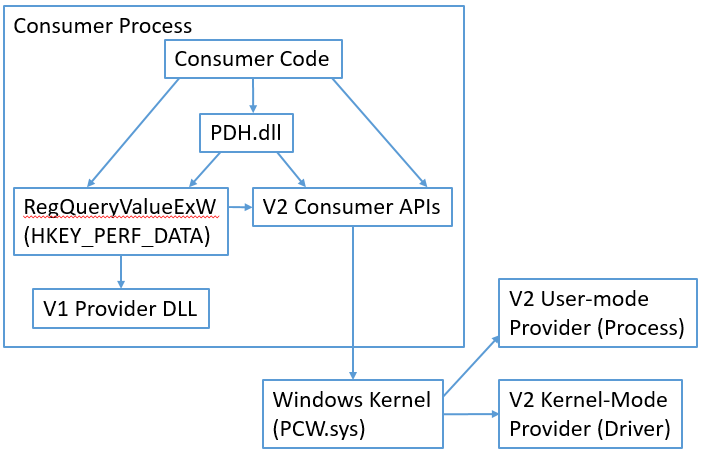
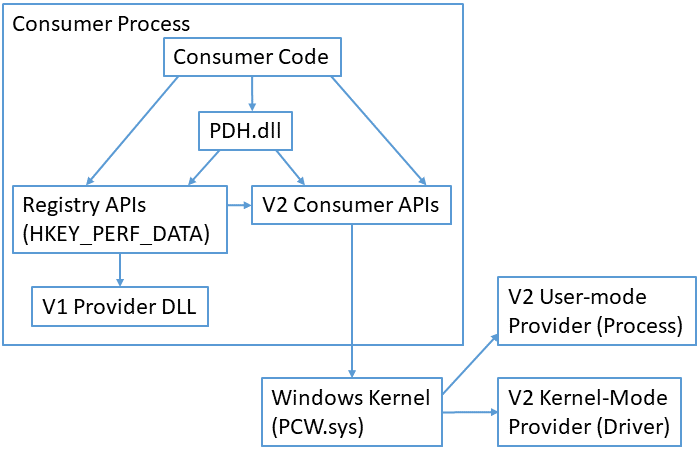
Feedback, fixes

diff --git a/desktop-src/PerfCtrs/about-performance-counters.md b/desktop-src/PerfCtrs/about-performance-counters.md
@@ -8,61 +8,65 @@ ms.date: 08/17/2020
 
 # About Performance Counters
 
-Windows Performance Counters provide a high-level abstraction layer with a consistent interface for collecting various kinds of system data such as CPU, memory, and disk usage statistics. System administrators use performance counters to monitor systems for performance or behavior problems. Software developers use performance counters to examine the resource usage of their programs.
+Windows Performance Counters provide a high-level abstraction layer with a consistent interface for collecting various kinds of system data such as CPU, memory, and disk usage statistics. System administrators use performance counters to monitor for performance or behavior problems. Software developers use performance counters to inspect the resource usage of their components.
 
 > [!IMPORTANT]
 > Windows Performance Counters are optimized for administrative/diagnostic data discovery and collection. They are not appropriate for high-frequency data collection or for application profiling since they are not designed to be collected more than once per second. For lower-overhead access to system information, you might prefer more direct APIs such as [**Process Status Helper**](https://docs.microsoft.com/windows/win32/psapi/process-status-helper), [**GlobalMemoryStatusEx**](https://docs.microsoft.com/windows/win32/api/sysinfoapi/nf-sysinfoapi-globalmemorystatusex), [**GetSystemTimes**](https://docs.microsoft.com/windows/win32/api/processthreadsapi/nf-processthreadsapi-getsystemtimes), or [**GetProcessTimes**](https://docs.microsoft.com/windows/win32/api/processthreadsapi/nf-processthreadsapi-getprocesstimes). For profiling, you might collect ETW logs with system profiling data using [**tracelog.exe**](https://docs.microsoft.com/windows-hardware/drivers/devtest/tracelog) with `-critsec`, `-dpcisr`, `-eflag`, or `-ProfileSource` options, or you might use [**Hardware Counter Profiling**](https://docs.microsoft.com/previous-versions/windows/desktop/hcp/hcp-reference).
 
 > [!NOTE]
-> Do not confuse Windows Performance Counters with the [**QueryPerformanceCounter**](https://docs.microsoft.com/windows/win32/api/profileapi/nf-profileapi-queryperformancecounter) API. Windows Performance Counters provide a high-level abstraction for various kinds of system information. The QueryPerformanceCounter function provides optimized access to a single kind of system information (the system's performance timestamp).
+> Do not confuse Windows Performance Counters with the [**QueryPerformanceCounter**](https://docs.microsoft.com/windows/win32/api/profileapi/nf-profileapi-queryperformancecounter) API. Windows Performance Counters provide a high-level abstraction for many kinds of system information. The QueryPerformanceCounter function provides optimized access to a high-precision timestamp.
 
-## Where applicable
+## Getting Started
 
-- Use [Performance Counter Tools](performance-counters-tools.md) when you want to collect or view the counter data from a system.
-- Use [Performance Counter Collection APIs](consuming-counter-data.md) when you want to write a script or a program that collects counter data from the local system.
-- Use [WMI Performance Counter Classes](https://docs.microsoft.com/windows/desktop/WmiSdk/monitoring-performance-data) when you want to collect counter data from a local or remote system using WMI.
-- Use [Performance Counter Provider APIs](providing-counter-data.md) when you want to publish performance counter data from your software component.
+- Use [Performance Counter Tools](performance-counters-tools.md) when you want to collect or view the performance data from a system.
+- Use [Performance Counter Collection APIs](consuming-counter-data.md) when you want to write a script or a program that collects performance data from the local system.
+- Use [WMI Performance Counter Classes](https://docs.microsoft.com/windows/desktop/WmiSdk/monitoring-performance-data) when you want to collect performance data from a local or remote system using WMI.
+- Use [Performance Counter Provider APIs](providing-counter-data.md) when you want to publish performance data from your software component.
 
-## Performance Counter Concepts
+## Concepts
 
-The Windows Performance Counter system is organized into consumers, providers, countersets (aka objects), counters, and instances.
+The Windows Performance Counter system is organized into **consumers**, **providers**, **countersets**, **counters**, **instances**, and **counter values**.
 
-A **consumer** is a software component that makes use of performance counter data. Windows includes several [built-in tools](performance-counters-tools.md) that make use of performance counter data including Task Manager, Resource Monitor, Performance Monitor, typeperf.exe, logman.exe, and relog.exe. Developers can write scripts and applications that access performance counters via the [performance counter APIs](consuming-counter-data.md).
+A **consumer** is a software component that makes use of performance data. Windows includes several [built-in tools](performance-counters-tools.md) that make use of performance data. These include Task Manager, Resource Monitor, Performance Monitor, typeperf.exe, logman.exe, and relog.exe. Developers can write scripts and applications that access performance counters via [performance counter APIs](consuming-counter-data.md).
 
-A **provider** is a software component that [generates and publishes performance counter data](providing-counter-data.md). A provider will publish data for one or more *countersets*. For example, a database might register itself as a performance counter provider.
+A **provider** is a software component that [generates and publishes performance data](providing-counter-data.md). A provider will publish data for one or more *countersets*. For example, a database system might register itself as a performance data provider.
 
-- A **V1 provider** is a software component that publishes performance counter data via a [performance DLL](providing-counter-data-using-a-performance-dll.md) that runs in the process of the consumer. A V1 provider is installed onto a system via an .INI file.
-- A **V2 provider** is a software component that publishes performance counter data via the [performance counter provider APIs](providing-counter-data-using-version-2-0.md). A V2 providers is installed onto a system via a .MAN (XML manifest) file.
+- A **V1 provider** is a software component that publishes performance data via a [performance DLL](providing-counter-data-using-a-performance-dll.md) that runs in the process of the consumer. A V1 provider is installed onto a system via an `.ini` file. The V1 provider architecture is deprecated. New providers should use the V2 provider architecture.
+- A **V2 provider** is a software component that publishes performance data via the [performance counter provider APIs](providing-counter-data-using-version-2-0.md). A V2 provider is installed onto a system via a `.man` (XML manifest) file.
 
-A **counterset** is a named grouping of performance counter data. A counterset has a name and one or more *counters*. For example, a performance data provider for a database might provide multiple countersets -- one for global statistics and one for per-database statistics. In some Windows APIs, the counterset is called a **performance object**.
+A **counterset** is a grouping of performance data within a provider. A counterset has a name and one or more *counters*. Collecting the data from a counterset returns a number of *instances*. In some Windows APIs, countersets are called **performance objects**. For example, a performance data provider for a database system might provide a counterset for per-database statistics.
 
-A **counter** is the definition of single piece of performance counter data. A counter has a name and a type. For example, a database might provide a counter named "Queries per second" with type `PERF_COUNTER_COUNTER` in its per-database counterset.
+A **counter** is the definition of single piece of performance data. A counter has a name and a type. For example, a "per-database statistics" counterset might contain a counter named "transactions per second" with type `PERF_COUNTER_COUNTER`.
 
-An **instance** is an entity about which performance counter data is collected. An instance has a name (string), an ID (integer), and one or more counter values (integers). For example, a database might publish a "per-database statistics" counterset containing one instance per database and containing "transactions per second", "memory usage", and "disk usage" counters for each instance.
+An **instance** is an entity about which performance data is reported. An instance has a name (string) and one or more *counter values*. For example, a "per-database statistics" counterset might contain one instance per database. The instance name would be the database name, and each instance would contain counter values for "transactions per second", "memory usage", and "disk usage" counters.
+
+A **counter value** is the value of a single piece of performance counter data. A counter value is an unsigned integer, either 32-bit or 64-bit depending on the type of the corresponding counter. When talking about an *instance*, a *counter value* might sometimes be called a *counter* or a *value*.
 
 > [!TIP]
-> Think of counterset, instance, and counter in database or spreadsheet terms. A **counterset** is a table. An **instance** is a row in the table. A **counter** is a column in the table. A **counter value** is a single value or cell in the table. When talking about an instance, the term *counter* might sometimes be used in place of *counter value*.
+> It might be helpful to relate performance counter terms to more familiar spreadsheet terms. A **counterset** is like a table. A **counter** is like a column. An **instance** is like a row. A **counter value** is like a cell in the table.
 
-Some countersets always contain data for exactly one entity (i.e. global system statistics such as system memory usage) and are called **single-instance countersets**. Other countersets contain data for a variable number of entities (e.g. data about each process on the system or data about each disk) and are called **multi-instance countersets**.
+**Single-instance countersets** always contain data for exactly one instance. This is common for countersets that report system-global statistics. For example, Windows has a built-in single-instance counterset named "Memory" that reports on global memory usage.
 
-Consumers will periodically collect and record the data from a provider's counterset. For example, the consumer might collect data once per second or once per minute. The data collected is called a **sample**. A sample consists of some timestamps along with the data for instances of the counterset. The data for each instance includes the instance name (string) and a set of counter values (integers, one value for each counter in the counterset).
+**Multi-instance countersets** contain data for a variable number of instances. This is common for countersets that report about entities within the system. For example, Windows has a built-in multi-instance counterset named "Processor Information" that reports one instance for each installed CPU.
 
-Instance names should be unique within a sample, i.e. a provider should not return two instances with the same name as part of a single sample. Some older providers do not follow this rule, so consumers should be able to tolerate non-unique instance names.
+Consumers will periodically collect and record the data from a provider's counterset. For example, the consumer might collect data once per second or once per minute. The data collected is called a **sample**. A sample consists of timestamps along with the data for instances of the counterset. The data for each instance includes the instance name (string) and a set of counter values (integers, one value for each counter in the counterset).
+
+Instance names should normally be unique within a sample, i.e. a provider should not return two instances with the same name as part of a single sample. Some older providers do not follow this rule, so consumers must be able to tolerate non-unique instance names. Instance names are not case-sensitive, so instances should not have names that differ only in case.
 
 > [!NOTE]
 > For backwards-compatibility reasons, the "Process" counterset returns non-unique instance names based on the EXE filename. This can cause confusing results, especially when a process with a non-unique name starts up or shuts down, as this will typically result in data glitches due to incorrect matching of instance names between samples. Consumers of of the "Process" counterset must be able to tolerate these non-unique instance names and the resulting data glitches.
 
 Instance names must be stable across samples, i.e. a provider should use the same instance name for the same entity each time the counterset is collected.
 
-Each counter has a type. The counter type indicates the type of the counter's **raw value** (either `UINT32` or `UINT64`). The counter type also indicates what the counter's raw value represents, which determines how the raw value should be processed to generate useful statistics.
+Each counter has a type. The counter type indicates the type of the counter's **raw value** (either unsigned 32-bit integer or unsigned 64-bit integer). The counter type also indicates what the counter's raw value represents, which determines how the raw value should be processed to generate useful statistics.
 
-While some counter types are simple and can produce useful statistics directly from the counter's raw value, many counter types require [additional processing](calculating-counter-values.md) to create a useful **formatted value**. To produce the formatted value, some counter types require raw values from two samples, some counter types require timestamps, and some counter types require raw values from multiple counters. For example:
+While some counter types are simple and have a raw value that is directly useful, many counter types require [additional processing](calculating-counter-values.md) to create a useful **formatted value**. To produce the formatted value, some counter types require raw values from two samples, some counter types require timestamps, and some counter types require raw values from multiple counters. For example:
 
-- `PERF_COUNTER_LARGE_RAWCOUNT` is a 64-bit raw value that requires no processing to be useful. It is appropriate for simple point-in-time values such as "Bytes of memory in use".
+- `PERF_COUNTER_LARGE_RAWCOUNT` is a 64-bit raw value that requires no processing to be useful. It is appropriate for point-in-time values such as "Bytes of memory in use".
 - `PERF_COUNTER_RAWCOUNT_HEX` is a 32-bit raw value that requires only simple hexadecimal formatting to be useful. It is appropriate for point-in-time or identifying information such as "Flags" or "Base Address".
-- `PERF_COUNTER_BULK_COUNT` is a 64-bit raw value that indicates a count of events and is used to compute the rate at which the events occur. To be useful, this counter type requires two samples, separated in time. The formatted value is the event rate, i.e. the number of times the event occurred per second over the interval between the two samples. Given two samples `s0` and `s1`, the event rate would be computed as `(s1.EventCount - s0.EventCount)/(s1.TimestampSeconds - s0.TimestampSeconds)`.
+- `PERF_COUNTER_BULK_COUNT` is a 64-bit raw value that indicates a count of events and is used to compute the rate at which the events occur. To be useful, this counter type requires two samples that are separated in time. The formatted value is the event rate, i.e. the number of times the event occurred per second over the interval between the two samples. Given two samples `s0` and `s1`, the formatted value (event rate) would be computed as `(s1.EventCount - s0.EventCount)/(s1.TimestampInSeconds - s0.TimestampInSeconds)`.
 
-Counterset providers are expected to behave as if they are stateless, i.e. collecting data from a counterset should not visibly affect the state of the provider. For example, a provider should not reset counter values to 0 when a counterset is collected and it should not use the timestamp of a previous collection to adjust the values in the current collection. Instead, it should provide simple raw counter values with accurate types so that the consumer can compute useful statistics based on the raw values.
+Providers are expected to behave as if they are stateless, i.e. collecting data from a counterset should not visibly affect the state of the provider. For example, a provider should not reset counter values to 0 when a counterset is collected and it should not use the timestamp of a previous collection to adjust the values in the current collection. Instead, it should provide simple raw counter values with accurate types so that the consumer can compute useful statistics based on the raw values and their timestamps.
 
 ## Performance API Architecture
 
@@ -78,14 +82,14 @@ Most performance counter consumers use APIs from [PDH.dll](using-the-pdh-functio
 
 Some older performance counter consumers use the [registry APIs](using-the-registry-functions-to-consume-counter-data.md) to collect performance data from the special `HKEY_PERFORMANCE_DATA` registry key. This is not recommended for new code because processing the data from the registry is complex and error-prone. The registry API implementation directly supports collecting data from V1 providers. It indirectly supports collecting data from V2 providers through a translation layer that uses the V2 consumer APIs.
 
-Some performance counter consumers use the [PerfLib V2 Consumer functions](using-the-perflib-functions-to-consume-counter-data.md) to directly access data from V2 providers. This is more complex than consuming data using the PDH APIs, but this approach can be useful in cases where PDH APIs cannot be used due to performance or dependency concerns. The PerfLib V2 implementation directly supports collecting data from V2 providers. It does not support collecting data from V1 providers.
+Some performance counter consumers use the [PerfLib V2 Consumer functions](using-the-perflib-functions-to-consume-counter-data.md) to directly access data from V2 providers. This is more complex than consuming data using the PDH APIs, but this approach can be useful if PDH APIs cannot be used due to performance or dependency concerns. The PerfLib V2 implementation directly supports collecting data from V2 providers. It does not support collecting data from V1 providers.
 
 > [!NOTE]
 > Windows OneCore does not include PDH.dll and does not include support for consuming performance counter data via the registry APIs. Consumers running on OneCore must use the PerfLib V2 Consumer functions.
 
-V1 providers are implemented as a provider DLL that is loaded into the consumer process. The registry API implementation manages loading the provider DLL, calling into the DLL to collect performance data, and unloading the DLL as appropriate. The provider DLL is responsible for [collecting performance data as appropriate](communicating-with-your-application.md), e.g. by using normal Windows APIs, RPC, named pipes, or other interprocess communication mechanisms.
+V1 providers are implemented as a provider DLL that is loaded into the consumer process. The registry API implementation manages loading the provider DLL, calling into the DLL to collect performance data, and unloading the DLL as appropriate. The provider DLL is responsible for [collecting performance data as appropriate](communicating-with-your-application.md), e.g. by using normal Windows APIs, RPC, named pipes, shared memory, or other interprocess communication mechanisms.
 
-V2 providers are implemented as either a user-mode program (often a Windows service) or a kernel-mode driver. Usually the performance data provider code is integrated directly into an existing component (i.e. the driver or service is reporting statistics about itself). The PerfLib V2 implementation manages requests and responses via the PCW.sys kernel extension, so the provider usually does not need to implement any interprocess communication to provide the performance data.
+V2 providers are implemented as either a user-mode program (often a Windows service) or a kernel-mode driver. Usually the performance data provider code is integrated directly into an existing component (i.e. the driver or service is reporting statistics about itself). The PerfLib V2 implementation manages requests and responses via the PCW.sys kernel extension so the provider usually does not need to implement any interprocess communication to provide the performance data.
 
 > [!NOTE]
 > Windows Performance Counter APIs and tools include limited support for accessing performance counters from other machines via Remote Registry (for V1 providers) and RPC (for V2 providers). This support is often hard to use in terms of authentication controls (the tools and APIs can only authenticate as the current user) as well as in terms of [system configuration](accessing-remote-counter-data.md) (the necessary endpoints and services are disabled by default). In many cases, it is better to access the performance counters of remote systems via [WMI](https://docs.microsoft.com/windows/desktop/WmiSdk/monitoring-performance-data) rather than via the built-in remote access support.

diff --git a/desktop-src/PerfCtrs/adding-counter-names-and-descriptions-to-the-registry.md b/desktop-src/PerfCtrs/adding-counter-names-and-descriptions-to-the-registry.md
@@ -9,7 +9,7 @@ ms.date: 05/31/2018
 # Adding Counter Names and Descriptions to the Registry
 
 > [!IMPORTANT]
-> Due to significant performance and reliability limitations, the method for providing performance counter data that this topic describes may be altered or unavailable in the future. Instead, Microsoft recommends that you use the method described in [Providing Counter Data Using Version 2.0](providing-counter-data-using-version-2-0.md) for creating new performance counters, and that you migrate existing performance counters to use that method as well.
+> Due to significant performance and reliability limitations, the method for providing performance counter data that this topic describes may be altered or unavailable in the future. Instead, Microsoft recommends that you use the method described in [Providing Counter Data Using Version 2.0](providing-counter-data-using-version-2-0.md) for creating new performance counters and that you migrate existing performance counters to use that method.
 
 The names and descriptions of all V1 performance objects and their counters must be installed the system. To store names and descriptions for the objects and counters from your [V1 provider](providing-counter-data.md):
 
@@ -20,7 +20,9 @@ The names and descriptions of all V1 performance objects and their counters must
 
 ## Creating a symbolic constants (.h) file
 
-Create a .h header file that defines constants for the offsets to the objects and counters that your provider provides. The constant values must be consecutive even numbers beginning with zero. Group the constants by objects (i.e. start each group with the object offset, then follow with the offsets of the counters for that object).
+Create a .h header file that defines constants (macros) for the offsets to the objects and counters that your provider provides. The .h header is used as input to **lodctr** during installation of your provider, and may also be used by the C/C++ code of your provider.
+
+The constant values must be consecutive, even numbers beginning with zero. Group the constants by objects (i.e. start each group with the object offset, then follow with the offsets of the counters for that object).
 
 The constants in the header determine the order in which the counters are added to the name and help text in the registry. The provider uses the offsets to determine which object is being queried and the index values to use when returning the data. For details, see [Implementing OpenPerformanceData](implementing-openperformancedata.md).
 
@@ -92,7 +94,7 @@ The `[objects]` section provides a list of the performance objects that the prov
 For each object (counterset) supported by your provider, add one key named `<symbol>_<langid>_NAME=` to the `[objects]` section, where `<symbol>` is the name of the object and `<langid>` is the language id of one of the supported languages. The value is ignored.
 
 > [!IMPORTANT]
-> The `[objects]` section improves the performance of the system. Although the objects section is optional, you should always include this section in your .INI file. If you include this section, your performance DLL is called only if you support the requested object. If you do not include the objects section, your DLL is called for every query because the system does not know which objects you support. If the object section is not included, **lodctr** generates a message in the application event log stating that the .INI file did not contain an objects section. The event identifier of this message is 2000.
+> The `[objects]` section improves the performance of the system. Although the objects section is optional, you should always include this section in your .INI file. If you include this section, your performance DLL is called only if you support the requested object. If you do not include the objects section, your DLL is called for every query because the system does not know which objects your provider supports. If the object section is not included, **lodctr** generates a message in the application event log stating that the .INI file did not contain an objects section. The event identifier of this message is 2000.
 
 ### [languages] section
 
@@ -102,7 +104,7 @@ For each supported language, add one key named `<langid>=`. The value is ignored
 
 For most languages, you should use the primary language identifier. The complete list of language identifiers is in the Winnt.h header file, under the heading "Primary Language Ids." Convert the value found in Winnt.h into a sequence of 3 hexadecimal digits by removing the `0x` prefix and adding leading `0` digits until the sequence is 3 digits long. For example, to specify English strings (0x9), use 009. To specify Italian strings (0x10), use 010.
 
-Chinese and Portuguese languages require both the primary and sublanguage identifiers, e.g. 404, 804, 416, 816. If you specify the primary identifier only (004 or 016), **lodctr** uses 804 (simplified Chinese) and 416 (Portuguese), respectively.
+Chinese and Portuguese languages require both the primary and sublanguage identifiers. Use 404, 804, 416, or 816 instead of 004 or 016.
 
 ### [text] section
 
@@ -110,14 +112,14 @@ The `[text]` section provides the name and help strings for your objects and cou
 
 For each object or counter, and for each supported language, you must provide a NAME key (containing the name or title string for your object or counter) and you may optionally provide a HELP key (containing the description or explanation string for your object or counter). The keys should be named `<symbol>_<langid>_NAME` and `<symbol>_<langid>_HELP`, where `<symbol>` is the symbolic constant for the object or counter (as defined in the symbolic constant .h file), and `<langid>` is the language identifier used for this string.
 
-For example, the English strings for an object with symbol `MY_COUNTER` would be specified as:
+For example, the English strings for a counter with symbol `MY_COUNTER` would be specified as:
 
 ```ini
 MY_COUNTER_009_NAME=My Counter
 MY_COUNTER_009_HELP=Description for My Counter.
 ```
 
-The text keys can appear in any order. The text strings should not contain formatting characters.
+The text keys can appear in any order. The text strings should not contain formatting characters such as tabs.
 
 ### Example INI file
 
@@ -184,7 +186,7 @@ Before running **lodctr**, be sure that your application has an entry under the 
 
 As an alternative to running **lodctr**, you can call [**LoadPerfCounterTextStrings**](https://docs.microsoft.com/windows/win32/api/loadperf/nf-loadperf-loadperfcountertextstringsw) (defined in Loadperf.h) from your installation program to load your counter names descriptions. You can then call [**UnloadPerfCounterTextStrings**](https://docs.microsoft.com/windows/win32/api/loadperf/nf-loadperf-unloadperfcountertextstringsw) during uninstall.
 
-The **lodctr** utility copies the strings from the .INI file to the **Counters** and **Help** registry values under the appropriate language subkeys. If the language subkey does not exist, the strings for that language are not copied. The utility also updates the **Last Counter** and **Last Help** value. The performance counter names and descriptions are stored in the following location in the registry.
+The **lodctr** utility copies the strings from the .INI file to the **Counters** and **Help** registry values under the appropriate language subkeys. If the corresponding language subkey does not exist, the strings for that language are not copied. The utility also updates the **Last Counter** and **Last Help** value. The performance counter names and descriptions are stored in the following location in the registry.
 
 ```
 HKEY_LOCAL_MACHINE

diff --git a/desktop-src/PerfCtrs/using-the-registry-functions-to-consume-counter-data.md b/desktop-src/PerfCtrs/using-the-registry-functions-to-consume-counter-data.md
@@ -35,14 +35,14 @@ You use the `lpValueName` parameter of the [**RegQueryValueEx**](https://docs.mi
 |-----|-----------
 |`Global`| Retrieves performance data for all performance objects registered on the computer except for those included in the `Costly` category.
 |`OLD_Global`| **Windows Vista and later:** Retrieves performance data for all **V1** performance objects registered on the computer except for those included in the `Costly` category. Use this instead of `Global` to avoid collecting unnecessary V2 provider data when you know that the data of interest comes from a V1 provider.
-|`xxx` or `xxx yyy zzz`| Retrieves performance data for the specified performance object(s). Specify the decimal index(s) associated with the object(s) that you want to retrieve. For example, if you want to retrieve System and Memory objects and you have determined that the indexes of the corresponding name strings are 2 and 4, specify the string `"2 4"`. Note that the query can return a different number of objects than you requested. This can happen if the specified object is unavailable, if the specified object depends on another object type, or if a provider otherwise returns data that was not directly requested. For example, threads depend on processes, so if you request data from the `Thread` object, the results will include data from the `Process` object.
-|`Counter xxx`| Retrieves name strings for the specified language identifier. Use the returned name strings to find the index corresponding to a given name or to find the name corresponding to a given index. See [Retrieving Counter Names and Help Text](retrieving-counter-names-and-help-text.md) for details. Note that the returned list includes both object (counterset) names and counter names (there is no simple way to determine whether a name is an object name or a counter name).
-|`Help xxx`| Retrieves help strings for the specified language identifier. Use the returned help strings to find descriptions corresponding to object (counterset) or counter help indexes. See [Retrieving Counter Names and Help Text](retrieving-counter-names-and-help-text.md) for details.
+|`n1 n2 ...`| Retrieves performance data for one or more performance objects. Specify the decimal index associated with each object that you want to retrieve in a space-separated list. For example, if you want to retrieve System and Memory objects and you have determined that the indexes of the corresponding name strings are 2 and 4, specify the string `"2 4"`. Note that the query can return a different number of objects than you requested. This can happen if the specified object is unavailable, if the specified object depends on another object type, or if a provider otherwise returns data that was not directly requested. For example, threads depend on processes, so if you request data from the `Thread` object, the results will include data from the `Process` object.
+|`Counter n`| Retrieves name strings for the specified language identifier, e.g. English for `Counter 9`. Use the returned name strings to find the index corresponding to a given name or to find the name corresponding to a given index. See [Retrieving Counter Names and Help Text](retrieving-counter-names-and-help-text.md) for details. Note that the returned list includes both object (counterset) names and counter names -- there is no simple way to determine whether a name is an object name or a counter name.
+|`Help n`| Retrieves help strings for the specified language identifier, e.g. English for `Help 9`. Use the returned help strings to find descriptions corresponding to object (counterset) or counter help indexes. See [Retrieving Counter Names and Help Text](retrieving-counter-names-and-help-text.md) for details.
 |`Costly`| **Deprecated:** Retrieves performance data for object types whose data is expensive to collect in terms of processor time or memory usage. This collection may take several minutes on a heavily-loaded machine. You should perform the collection on a worker thread if your application needs to respond to the user during this data collection.
 
 For details on the format of the performance data that the registry returns, see [Performance Data Format](performance-data-format.md).
 
-For an example that gets the names and descriptions of the registered counters on the computer, see [Retrieving Counter Names and Help Text](retrieving-counter-names-and-explanations.md).
+For an example that gets the names and descriptions of the registered counters on the computer, see [Retrieving Counter Names and Help Text](retrieving-counter-names-and-help-text.md).
 
 For an example that accesses the components of the performance data, see [Displaying Object, Instance, and Counter Names](displaying-object-instance-and-counter-names.md).
 

diff --git a/desktop-src/PerfCtrs/64-bit-support.md b/desktop-src/PerfCtrs/64-bit-support.md
@@ -8,12 +8,16 @@ ms.date: 05/31/2018
 
 # 64-bit Support
 
-If your [V1 provider](providing-counter-data.md) runs on a 64-bit operating system, you must install both the 32-bit and 64-bit version of your provider on the system if you want to support both 32-bit and 64-bit consumers. Place the 32-bit version in the `%windir%\syswow64` folder and the 64-bit version in the `%windir%\system32` folder.
+A 64-bit performance data provider DLL cannot run in a 32-bit consumer process and a 32-bit performance data provider DLL cannot run in a 64-bit process. The provider registration only supports a single `Library` value for the path to your performance data provider DLL so you cannot supply different paths to be used by 32-bit consumers and 64-bit consumers.
 
-For a 32-bit consumer to consume local counter data, the 32-bit version of the provider must be installed.
+The following options are available to support V1 providers on 64-bit operating systems:
 
-For a 64-bit consumer to consume local counter data, the 64-bit version of the provider must be installed.
+- **Recommended:** Install and register the path to the 32-bit version of your provider DLL.
+  - 32-bit consumers will work natively: They will load your 32-bit provider DLL into the 32-bit consumer process.
+  - 64-bit consumers will work indirectly: They will be unable to load your 32-bit provider DLL into the 64-bit consumer process, but Windows will automatically fall back to creating a 32-bit perfhost process, loading your 32-bit provider DLL into the perfhost process, and sending performance data from the 32-bit perfhost process to the 64-bit consumer process.
+- **64-bit only:** Install and register the path to the 64-bit version of your provider DLL.
+  - 32-bit consumers will fail: They will be unable to load your 64-bit provider DLL into the 32-bit process.
+  - 64-bit consumers will work natively: They will load your 32-bit provider DLL in-process.
 
-For a 32-bit consumer to consume remote counter data from a 32-bit operating system, the 32-bit version of the provider must exist on the remote system. A 32-bit consumer can consume remote counter data from a 64-bit operating system only if the remote system contains the 64-bit version of the provider.
-
-For a 64-bit consumer to consume remote counter data from a 32-bit operating system, the 32-bit version of the provider must exist on the remote system. A 64-bit consumer can consume remote counter data from a 64-bit operating system only if the remote system contains the 64-bit version of the provider.
+> [!NOTE]
+> Several built-in Windows performance data providers install a 32-bit DLL into `%systemroot%\syswow64`, install a 64-bit DLL into `%systemroot%\system32`, and register the `Library` path as `%systemroot%\system32\ProviderName.dll`, allowing filesystem redirection to resolve the path to the appropriate DLL. This is supported only for performance data providers that are part of the Windows operating system. Providers that are not part of the Windows operating system must not install files into the `Windows` folder. Unrecognized files in the `Windows` folder may be removed during servicing or upgrade.

diff --git a/desktop-src/PerfCtrs/calculating-counter-values.md b/desktop-src/PerfCtrs/calculating-counter-values.md
@@ -8,7 +8,7 @@ ms.date: 08/17/2020
 
 # Calculating Counter Values
 
-Most counter types use a formula for calculating a displayable value for the counter. For a list of counter types and their formulas, see the Counter Types section of the [Windows Server 2003 Deployment Kit](https://technet.microsoft.com/library/3fb01419-b1ab-4f52-a9f8-09d5ebeb9ef2). If the counter requires two samples in order to calculate the displayable value, the counter type's `PERF_DELTA_COUNTER` flag is set.
+Most counter types use a formula for calculating a displayable value for the counter. For a list of counter types and their formulas, see the Counter Types section of the [Windows Server 2003 Deployment Kit](https://docs.microsoft.com/previous-versions/windows/it-pro/windows-server-2003/cc776490(v=ws.10)). If the counter requires two samples in order to calculate the displayable value, the counter type's `PERF_DELTA_COUNTER` flag is set.
 
 The following example shows how to use the raw data to calculate a displayable value for each counter type. This example builds on the example in [Retrieving Counter Data](retrieving-counter-data.md).
 
@@ -56,7 +56,7 @@ BOOL DisplayCalculatedValue(RAW_DATA* pSample0, RAW_DATA* pSample1)
     {
         if (pSample0->CounterType != pSample1->CounterType)
         {
-            wprintf(L"The sames have inconsistent counter types.\n");
+            wprintf(L"The samples have inconsistent counter types.\n");
             fSuccess = FALSE;
             goto cleanup;
         }
@@ -84,7 +84,7 @@ BOOL DisplayCalculatedValue(RAW_DATA* pSample0, RAW_DATA* pSample1)
         denominator = pSample1->Time - pSample0->Time;
         dwordValue = (DWORD)(numerator / ((double)denominator / pSample1->Frequency));
         wprintf(L"Display value is: %lu%ls\n", dwordValue,
-            (pSample0->CounterType == PERF_SAMPLE_COUNTER) ? L"." : L"/sec.");
+            (pSample0->CounterType == PERF_SAMPLE_COUNTER) ? L"" : L"/sec");
         break;
 
     case PERF_COUNTER_QUEUELEN_TYPE:

diff --git a/desktop-src/PerfCtrs/ctrpp.md b/desktop-src/PerfCtrs/ctrpp.md
@@ -16,7 +16,7 @@ api_location:
 
 # CTRPP
 
-The CTRPP tool is a pre-processor that parses and validates the manifest for your V2 provider. The tool generates `.rc` resources with the strings needed by consumers of your provider, and it generates a `.h` header with code that you use to provide your counter data. You should use the generated code as a starting point when developing your provider instead of trying to generate this code yourself.
+The CTRPP tool is a pre-processor that parses and validates the manifest for your V2 provider. The tool generates `.rc` resources with the strings needed by consumers of your provider, and it generates a `.h` header with code that you use to provide your counter data. You should run the CTRPP tool during the build of your provider. You should use the generated code as a starting point when developing your provider instead of trying to generate this code yourself.
 
 ```syntax
 ctrpp -o codeFile -rc rcFile [-legacy] [-MemoryRoutines] [-NotificationCallback] [-prefix prefix] [-ch symFile] [-backcompat] inputFile

diff --git a/desktop-src/PerfCtrs/performance-counters-what-s-new.md b/desktop-src/PerfCtrs/performance-counters-what-s-new.md
@@ -6,7 +6,7 @@ ms.topic: article
 ms.date: 05/31/2018
 ---
 
-# What's New
+# What's New with Performance Counters
 
 This section describes the new features that were added to Performance Counters for each release.
 
